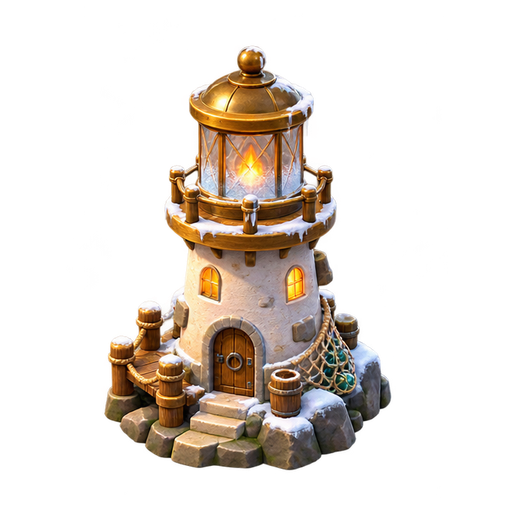
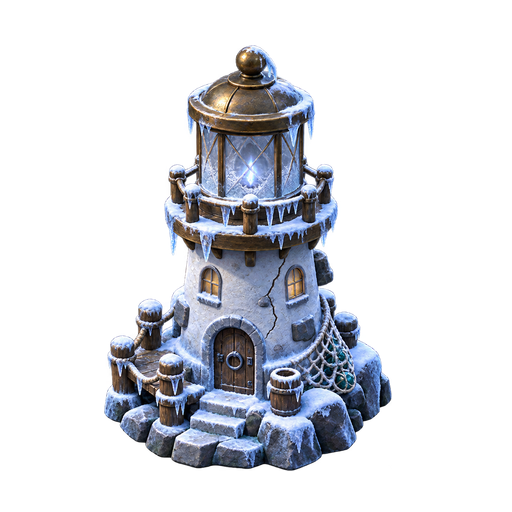
Heartstones repainted (brief 39): whole fully alive, hurt cold and cracked, Surge an elemental burst

Changed region(s): [[0.1875, 0.0938, 0.7812, 0.9375]]

diff --git a/m92be43d0ac/index.html b/m92be43d0ac/index.html
@@ -8081,7 +8081,7 @@ function makeHearth(lv) {
   for (const q of S.people) { if (PEOPLE_ART.includes(q.id)) { for (const ps of PEOPLE_POSES) if (!IMG['p-' + q.id + '-' + ps]) load('p-' + q.id + '-' + ps, `art4/people/p-${q.id}-${ps}.png?v=3`); }
     else if (!IMG['k' + q.stand]) load('k' + q.stand, `art4/k${q.stand}.png?v=13`); }
   // Codex's brief 38 (2026-10-09): the Heartstone in four states, each workshop in four, the material, the dusk banner and the horn
-  const A = (n, v = 1) => IMG[n] || load(n, `art4/hearth/${n}.png?v=${v}`);
+  const A = (n, v = 1) => IMG[n] || load(n, `art4/hearth/${n}.png?v=${n.startsWith('hs-') ? 2 : v}`);
   for (const k of ['whole', 'hurt', 'frozen', 'surge']) A(`hs-${st.art}-${k}`);
   for (const p of plots) for (const k of ['ruin', 'built', 'u1', 'u2']) A(`ws-${p.id}-${k}`);
   A('mat-' + C.mat); A('horn-' + (C.mat === 'shell' ? 'conch' : 'bamboo'));
@@ -8095,7 +8095,7 @@ const MAT_ICON = { shell:'<svg viewBox="0 0 24 24" aria-hidden="true"><path d="M
 function hearthStart() {
   const H = HS(), st = H.stone, P = S.p; P.x = st.x; P.y = st.y + 150; S.pet.x = P.x - 40; S.pet.y = P.y + 30; paintThaw(st.x, st.y, 380);
   $('#hud').classList.add('hearth'); $('#hsBar').style.setProperty('--kc', FORM_PAL[keeperEl][0]); $('#duskBanner').classList.remove('on');
-  $('#hsBar .hsi').innerHTML = `<img src="art4/hearth/hs-${st.art}-whole.png?v=1" alt="" onerror="this.outerHTML=HS_ICON['${st.art}']">`;
+  $('#hsBar .hsi').innerHTML = `<img src="art4/hearth/hs-${st.art}-whole.png?v=2" alt="" onerror="this.outerHTML=HS_ICON['${st.art}']">`;
   $('#matPill').firstElementChild.outerHTML = `<img src="art4/hearth/mat-${H.C.mat}-icon.png?v=1" alt="" onerror="this.outerHTML=MAT_ICON['${H.C.mat}']">`;
   const db = $('#duskBanner'); db.classList.add('art'); db.style.backgroundImage = `url(art4/hearth/banner-dusk-${H.C.mat === 'shell' ? 'water' : 'wood'}.png?v=1)`; $('#matPill').setAttribute('aria-label', H.C.mat === 'shell' ? 'Shells' : 'Bamboo');
 }
@@ -8434,7 +8434,9 @@ function drawHearthStone(st) {
           const gr = g.createLinearGradient(0, 0, Math.cos(a) * L, Math.sin(a) * L); gr.addColorStop(0, pal[i % 5]); gr.addColorStop(1, 'rgba(255,255,255,0)');
           g.globalAlpha = .35 * k; g.fillStyle = gr; g.beginPath(); g.moveTo(0, 0); g.arc(0, 0, L, a - .07, a + .07); g.closePath(); g.fill(); } g.restore(); }); }
       const glowK = out ? 0 : (.25 + .75 * f) * (sg ? 1.4 : 1); if (glowK > 0) add(() => glowAt(x, y - D * (lamp ? .62 : .42), (lamp ? 170 : 150) + 90 * nk + (sg ? 120 : 0), sg ? FORM_PAL[keeperEl][1] : lamp ? '#FFD98A' : '#7FE0A8', Math.min(1, .4 + .4 * nk) * glowK));
-      g.drawImage(im, dx, dy, D, D);
+      // (brief 39's surge pictures paint the stone about a fifth smaller to make room for the burst, so they are drawn larger round the
+      // same base, and the stone never shrinks at its moment of triumph)
+      if (sg) { const K = 1.2, D2 = D * K; g.drawImage(im, x - D2 / 2, y + 6 - D2 * ay / 512, D2, D2); } else g.drawImage(im, dx, dy, D, D);
       if (!out && !sg && f < 1 / 3 && ok(P('frozen'))) { g.globalAlpha = Math.min(.7, (1 / 3 - f) * 2.4); g.drawImage(P('frozen'), dx, dy, D, D); g.globalAlpha = 1; }
       g.restore(); return; } }
   if (st.art === 'bird') { drawBirdStone(st, f, nk, sg, out); g.restore(); return; }
